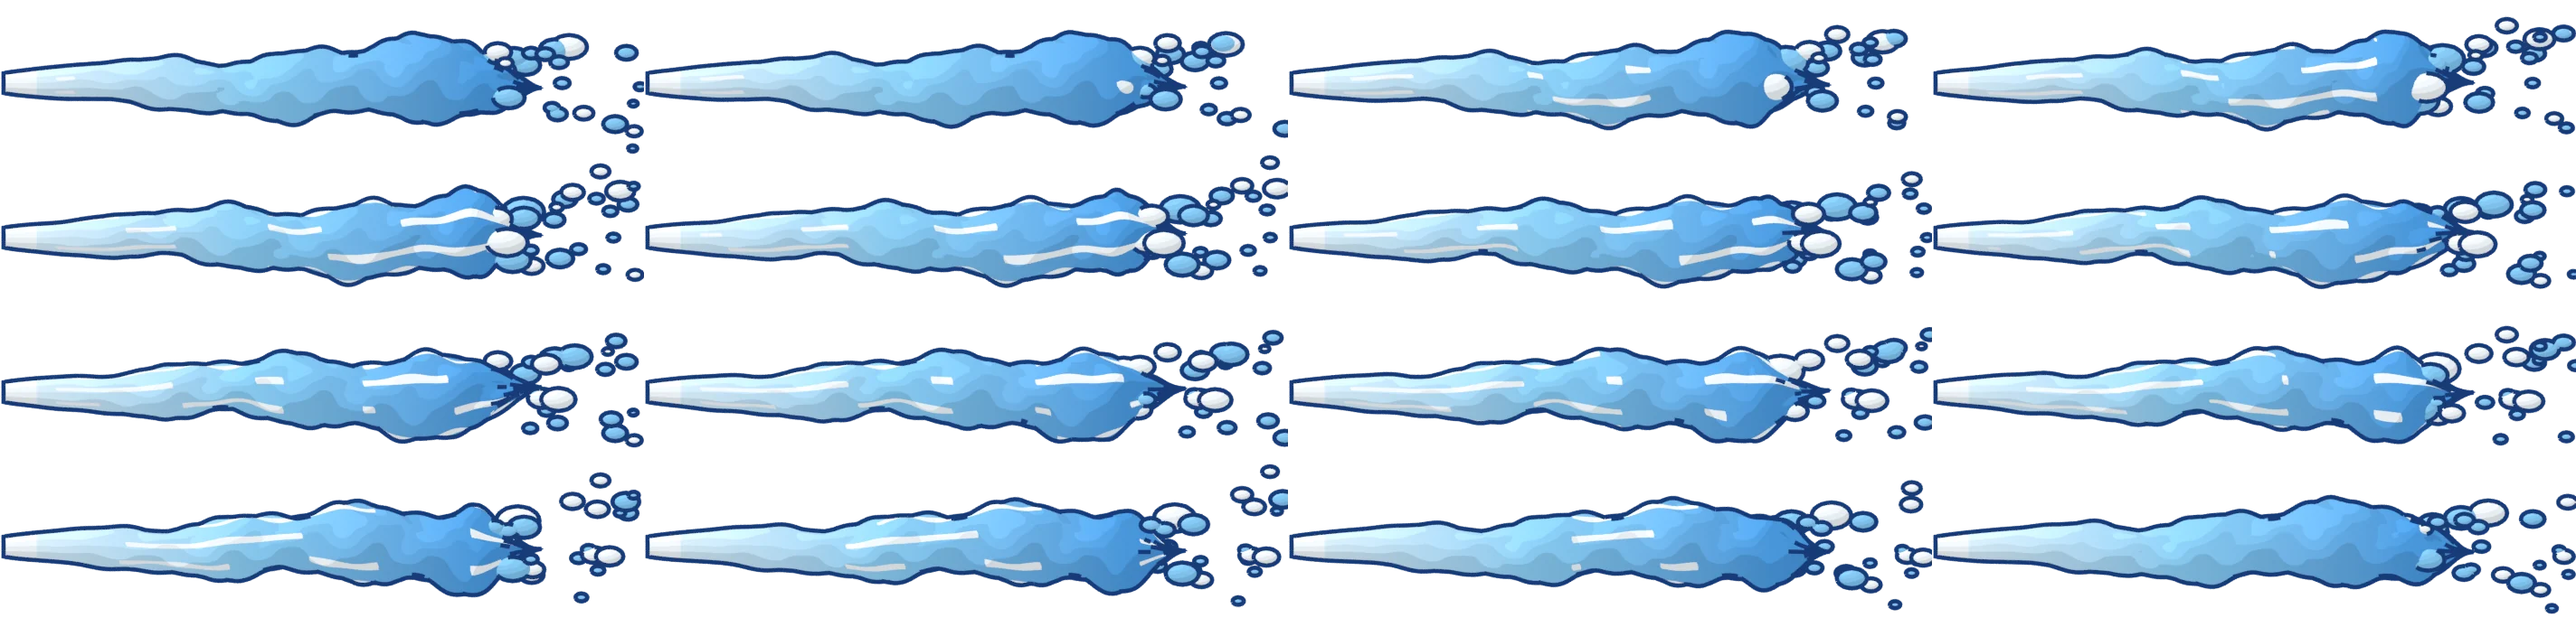
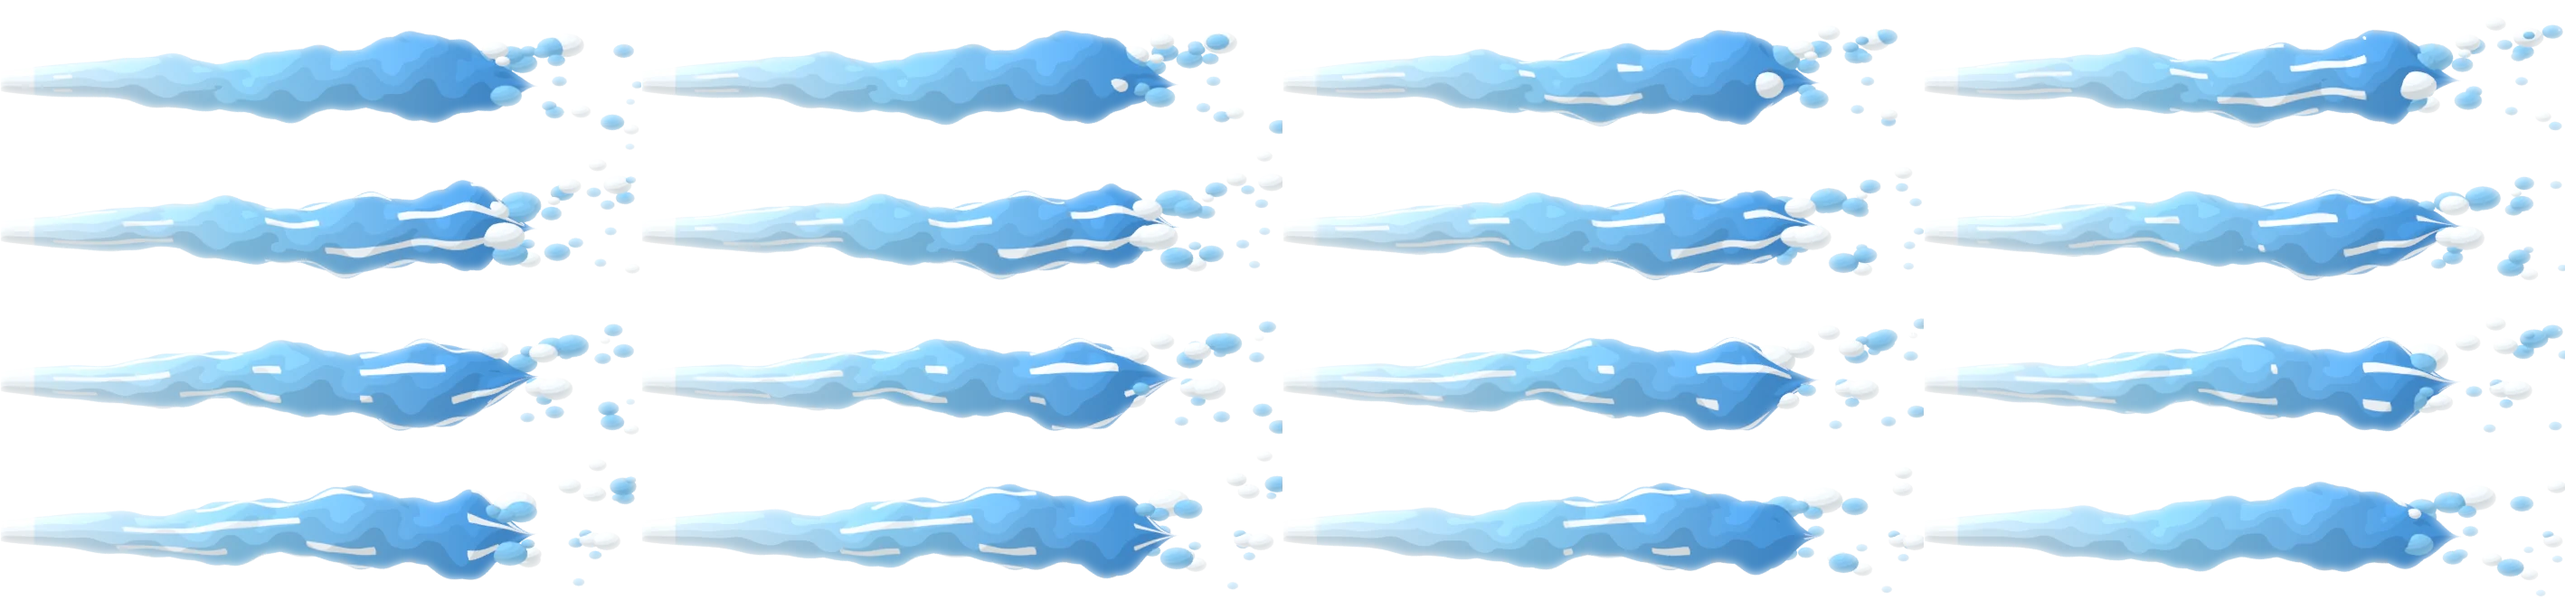
fix: 查手机 白娘子水柱去描边重渲+边缘羽化，法海金字描边减细到字号 6%

diff --git a/chashouji/web/crew.js b/chashouji/web/crew.js
@@ -1126,7 +1126,9 @@ const FAHAI_FX = {
   orb: { R: 64, rgb: [255, 200, 60] },                                                 // 掌心金光团
   /* 咒语金字：出手时字号 → 飞 grow 秒后的字号；every：每几颗粒子画一个字（其余只当金光雾）。
      第一版 24 → 50、每秒 10 个字，一串小字 —— 用户："咒语太细太小，参考真相女神的喷雾"：字放到 40 → 90，外面套一层金光雾锥（mist） */
-  mantra: { chars: '卍唵嘛呢叭咪吽', size: [40, 90], grow: 0.22, every: 3, fill: [255, 220, 90], edge: [96, 40, 6], glow: [255, 190, 40] },
+  /* lw：描边宽 = 字号的几成。原来 0.16（90 号字描 14 像素，一圈深褐粗边），用户："咒语描边不要那么粗" → 0.06，描边也半透一点（edge 0.8）；
+     字从底图上跳出来靠身后那团金光（glow），不靠粗描边 */
+  mantra: { chars: '卍唵嘛呢叭咪吽', size: [40, 90], grow: 0.22, every: 3, lw: 0.06, fill: [255, 220, 90], edge: [96, 40, 6], glow: [255, 190, 40] },
   mist: { r0: 30, r1: 110, rim: [170, 90, 10], body: [255, 214, 100], core: [255, 250, 225], a: [0.2, 0.3], star: 0 },      // 粒子只有女神的 1/7（30 vs 220），单团浓一些
 };
 function drawFahaiAura(ctx, b, s, at, probe) {
@@ -1178,7 +1180,7 @@ function drawMantra(ctx, ps) {
     ctx.save(); ctx.translate(d.x, d.y); ctx.rotate(Math.sin(d.t * 5 + d.j * 6) * 0.25);
     ctx.font = `900 ${sz.toFixed(1)}px "Noto Serif CJK SC","Songti SC","STSong","SimSun",serif`;
     const ch = M.chars[((d.seq % M.chars.length) + M.chars.length) % M.chars.length];
-    ctx.lineWidth = Math.max(3, sz * 0.16); ctx.strokeStyle = rgba(M.edge, 1); ctx.strokeText(ch, 0, 1);
+    ctx.lineWidth = Math.max(2, sz * M.lw); ctx.strokeStyle = rgba(M.edge, 0.8); ctx.strokeText(ch, 0, 1);
     ctx.fillStyle = rgba(M.fill, 1); ctx.fillText(ch, 0, 1);
     ctx.restore();
   }

diff --git a/chashouji/web/main.js b/chashouji/web/main.js
@@ -1113,7 +1113,7 @@ const RECIPE = {
       const a = -Math.PI / 2 + (Math.random() - 0.5) * 2.6, sp = sp0 + Math.random() * (sp1 - sp0);
       Particles.spawn({ kind: 'glyph', x, y, vx: Math.cos(a) * sp, vy: Math.sin(a) * sp, g: 260, drag: 0.94,
                         life: 0.6 + Math.random() * 0.3, r: sz * 0.6, r1: sz, rot: (Math.random() - 0.5) * 0.6, vrot: (Math.random() - 0.5) * 3,
-                        rgb: [255, 214, 70], edge: [90, 36, 6], lw: Math.max(3, sz * 0.14),
+                        rgb: [255, 214, 70], edge: [90, 36, 6], lw: Math.max(2, sz * 0.06),   // 描边细（同 crew.js FAHAI_FX.mantra.lw）
                         text: this.GLYPHS[Math.floor(Math.random() * this.GLYPHS.length)] });
     },
     burst(x, y, side, s) {

diff --git a/chashouji/web/sea.js b/chashouji/web/sea.js
@@ -29,7 +29,7 @@
 /* 掌心水柱的 3D 贴图（tools/3d/water/pack_water.py 打印的，重渲后重填）。
    16 帧、4 列，x0 = 掌心在格子里的 x、cy = 中轴的 y；loop = 引擎里多少秒转一圈（jet.py 按整周期渲，首尾相接）。 */
 const WaterArt = {
-  jet: { src: 'assets/fx/jet.webp', n: 16, cols: 4, w: 712, h: 171, x0: 4, cy: 92, loop: 0.5 },
+  jet: { src: 'assets/fx/jet.webp', n: 16, cols: 4, w: 709, h: 166, x0: 1, cy: 90, loop: 0.5 },
   load(v, off) {
     if (off) return Promise.resolve(false);
     const o = this.jet;

diff --git a/chashouji/tools/3d/water/pack_water.py b/chashouji/tools/3d/water/pack_water.py
@@ -7,7 +7,17 @@
   jet.webp：水柱 16 帧，原尺寸。打印的 x0 = 掌心（渲染图 x 12 像素处，jet.py X0）在裁剪框里的 x，cy = 中轴在裁剪框里的 y。
 """
 import os, sys, glob
-from PIL import Image
+from PIL import Image, ImageChops, ImageFilter
+
+# 边缘往里羽化（像素）：alpha × 自己模糊一遍 —— 轮廓处降到一半、往里 EDGE_SOFT 像素渐到不透明。
+# 2026-09-28 水柱改不描边（jet.py OUTLINE = 0）后，赛璐璐的硬边还是一刀切；用户要"参考真相女神的喷雾做柔一点"
+EDGE_SOFT = 5
+
+
+def soften(im):
+    a = im.getchannel('A')
+    im.putalpha(ImageChops.multiply(a, a.filter(ImageFilter.GaussianBlur(EDGE_SOFT))))
+    return im
 
 SRC, DST = sys.argv[1], sys.argv[2]
 
@@ -28,7 +38,7 @@ def pack(files, out, scale, cols):
     rows = (len(files) + cols - 1) // cols
     at = Image.new('RGBA', (cw * cols, ch * rows))
     for i, f in enumerate(files):
-        im = Image.open(f).crop(box)
+        im = soften(Image.open(f).convert('RGBA')).crop(box)
         if scale != 1: im = im.resize((cw, ch), Image.LANCZOS)
         at.paste(im, ((i % cols) * cw, (i // cols) * ch))
     at.save(out, 'WEBP', quality=86, method=6)

diff --git a/chashouji/tools/3d/water/jet.py b/chashouji/tools/3d/water/jet.py
@@ -20,7 +20,9 @@ R0, R1 = 0.09, 0.40                 # 出口半径、碎开前最粗处半径
 BREAK = (0.72, 0.84)                # 柱身在这段（占全长的比例）收尖断开
 NU, NT = 170, 28                    # 柱身沿长度 / 一圈的细分
 LOOP_N = 1                          # 引擎里一个循环 LOOP 秒（crew.js BAISU_JET.loop），这里只管"整周期"
-OUTLINE = 3.4                       # 渲染图里的描边像素：引擎按两点距离缩放（~0.6~0.9 倍），到屏幕上约 2~3 像素
+# 不描边（2026-09-28）：原来 3.4 像素深蓝描边，引擎把水柱加粗 2.2 倍（crew.js JET_W）后描边跟着粗到 7 像素 ——
+# 用户："水流描边太粗，有点假，参考真相女神的喷雾做柔一点"。边缘改在 pack_water.py 里往里羽化（EDGE_SOFT）
+OUTLINE = 0
 LIGHT = (-0.4, -0.6, 0.7)
 TONES = [(0.0, 0.7), (0.3, 0.88), (0.65, 1.0), (0.88, 1.16)]
 COLORS = ['e4f6ff', '8fd3fa', '4d9fe6', '2f79cf']   # base 0（出口）→ 1（末端）

diff --git a/chashouji/tools/3d/water/waterkit.py b/chashouji/tools/3d/water/waterkit.py
@@ -33,6 +33,9 @@ def setup(W, H, samp, outline_px):
     r.film_transparent = True
     r.image_settings.file_format = 'PNG'; r.image_settings.color_mode = 'RGBA'
     sc.view_settings.view_transform = 'Standard'     # 自发光颜色 = 贴图颜色（默认 AgX 会把饱和蓝压灰）
+    if outline_px <= 0:                               # 不描边（水柱 2026-09-28 起：描边在引擎里被放粗，读成贴纸）
+        r.use_freestyle = False
+        return sc
     r.use_freestyle = True; r.line_thickness_mode = 'ABSOLUTE'; r.line_thickness = 1.0
     vl = sc.view_layers[0]; vl.use_freestyle = True
     fs = vl.freestyle_settings
